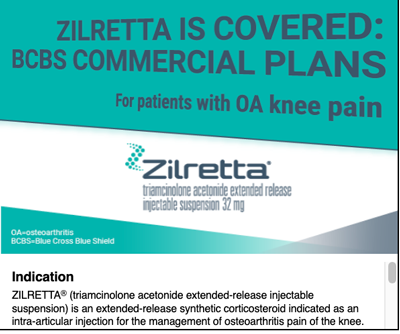
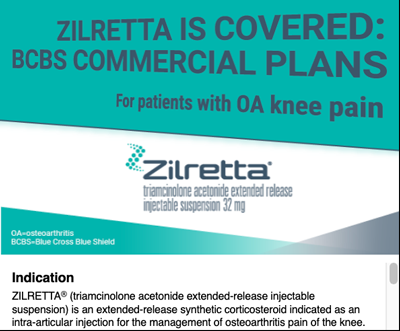
updated thumbnail image zilretta BCBS

diff --git a/index.html b/index.html
@@ -713,6 +713,28 @@
 					</div>
 					<div class="row">
 						<div class="col-sm-12">
+							<!-- Zilretta BCBS animated banner -->
+							<div class="media-body">
+								<h3>Zilretta BCBS Animated banner</h3>
+								<div class="projectImage">
+									<a href="img/zilrettaBCBSbanner_thumb.png"><img
+											src="img/zilrettaBCBSbanner_thumb.png" width="300" height="225"></a><br>
+								</div>
+								<div class="project">
+									<h4>Project:</h4>
+									<p>ZILRETTA - html and css animation</p>
+									<h4>Technology used:</h4>
+									<p>HTML, CSS, Visual Studio Code</p>
+									<a href="https://sanchja.github.io/online_portfolio/banner_ads/Zilretta BCBS Animated banner 300X250/index.html"
+										target="_blank"><button class="btn btn-success"><i class="fas fa-globe"></i>
+											Live View</button></a>
+								</div>
+								<hr class="rule">
+							</div>
+						</div>
+					</div>
+					<div class="row">
+						<div class="col-sm-12">
 							<!-- Butrans animated banner -->
 							<div class="media-body">
 								<h3>Butrans Animated banner</h3>
